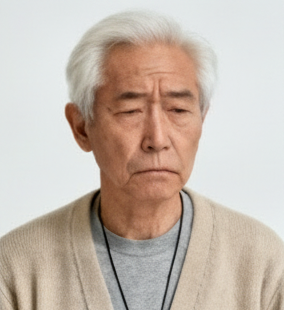
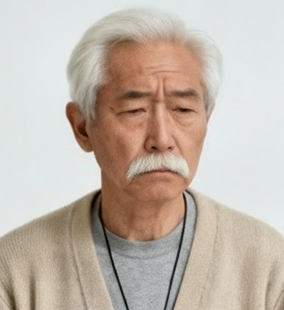
#02 미야모토 마스터 시트 콧수염 일치(엄격 패널 편집 합성), 엄격 표정 셀 참조 복구
Claude-Session: https://claude.ai/code/session_01YQ7Cp53r875ebzvKNdfnd7

diff --git a/scripts/build_chika_phase3.py b/scripts/build_chika_phase3.py
@@ -66,7 +66,7 @@ EXPR = {
     ("SAORI_B", "focus"): C + "saori-b-expr1.png", ("SAORI_B", "fear"): C + "saori-b-expr2.png", ("SAORI_B", "resolve"): C + "saori-b-expr3.png",
     ("SAORI_E", "smile"): C + "saori-e-expr1.png", ("SAORI_E", "nostalgic"): C + "saori-e-expr2.png",
     ("GONDO", "sneer"): C + "gondo-expr1.png", ("GONDO", "laugh"): C + "gondo-expr2.png", ("GONDO", "panic"): C + "gondo-expr3.png",
-    ("MIYAMOTO", "smile"): C + "miyamoto-expr1.png", ("MIYAMOTO", "wistful"): C + "miyamoto-expr3.png",
+    ("MIYAMOTO", "smile"): C + "miyamoto-expr1.png", ("MIYAMOTO", "stern"): C + "miyamoto-expr2.png", ("MIYAMOTO", "wistful"): C + "miyamoto-expr3.png",
     ("KIRITANI", "stern"): C + "kiritani-expr2.png", ("KIRITANI", "doubt"): C + "kiritani-expr3.png",
     ("OKOCHI", "calm"): C + "okochi-expr1.png", ("OKOCHI", "stern"): C + "okochi-expr2.png", ("OKOCHI", "smile"): C + "okochi-expr3.png",
 }
@@ -449,13 +449,13 @@ SHOTS = [
     S("S15f3", "S15", "react", "cu", "bq_cold", "HA", ["KIRITANI"], "BQ_WIDE",
       "High angle chest-up of Kiritani listening with a slow single nod, rimless glasses, expressionless, guests blurred.", expr="stern"),
     S("S15g", "S15", "d", "cu", "bq_cold", "EL", ["MIYAMOTO"], "BQ_WIDE",
-      "Chest-up close-up of Miyamoto in his beige cardigan among the suits, lowered brows, the bushy white moustache, chandeliers blurred.", line="line049", expr="wistful"),
+      "Chest-up close-up of Miyamoto in his beige cardigan among the suits, lowered brows, the bushy white moustache, chandeliers blurred.", line="line049", expr="stern"),
     S("S15h", "S15", "d", "cu", "bq_cold", "LA", ["SAORI_B"], "BQ_WIDE",
       "Chest-up close-up of Saori with a faint cool smile, eyes steady, guests blurred.", line="line050", expr="resolve"),
     S("S15i", "S15", "ins", "ecu", "bq_cold", "HA", ["MIYAMOTO"], "P_CASE",
       "High angle extreme close-up: an old man's hands unlatching and lifting the lid of a grey steel document case on a white tablecloth, a thick stack of yellowed blank sheets inside."),
     S("S15j", "S15", "d", "cu", "bq_cold", "EL", ["MIYAMOTO"], "BQ_WIDE",
-      "Chest-up close-up of Miyamoto, eyes fixed, no smile, the white moustache, a slow nod.", line="line051", expr="wistful"),
+      "Chest-up close-up of Miyamoto, eyes fixed, no smile, the white moustache, a slow nod.", line="line051", expr="stern"),
     S("S15k", "S15", "sil", "ws", "bq_cold", "BE", ["GONDO", "CROWD"], "BQ_HIGH",
       "Extreme bird's-eye view straight down: Gondo on his knees on the red carpet, small in the frame, a ring of empty carpet around him, guests' heads at the edges.",
       motion="Slow motion: his shoulders slump and his head bows lower. Nobody approaches.", hero=True),

diff --git a/productions/chika-souko-ja/08_PHASE2_검수.md b/productions/chika-souko-ja/08_PHASE2_검수.md
@@ -67,7 +67,7 @@
 | 사오리 ⓑ 지하·연회장(S06~S17) | `saori-basement-sheet-1.png` | — (연회장은 앞치마 제외 = 니트+청바지 패널) |
 | 사오리 ⓒ 엔딩(S18) | `saori-ending-sheet-1.png` | — |
 | 곤도 | `gondo-fix-1.png` | — |
-| 미야모토 | `miyamoto-fix-1.png` | 하단 가운데(콧수염 없음) |
+| 미야모토 | `miyamoto-master-1.png` (엄격 패널 콧수염 편집 반영, 고니감독님 지적 2026-10-08) | — |
 | 기리타니 | `kiritani-sheet-1.png` | — (8패널) |
 | 오코치 | `okochi-fix-1.png` | — |
 | 대강당 / 기획부 / 엘리베이터 홀 / 지하(낮) / 지하(밤·엔딩) / 복도 / 연회장 | `loc-*.png` | — |
@@ -76,3 +76,6 @@
 | 소품 | `props-sheet-1.png` | 전표 패널(가짜 글자) → 로컬 그래픽으로 대체 |
 
 콘택트시트: `assets/qa/chika/PHASE2_마스터에셋_콘택트시트.jpg`. 식별자 갱신: 사오리 = **앞머리(뱅) 있는 어깨 길이 검은 머리 반묶음 + 얇은 은테 안경**.
+
+## 5차 (고니감독님 지적: 콧수염 불일치)
+- 미야모토 하단 가운데(엄격) 패널만 잘라 편집 모델로 콧수염 추가(0.04달러) → 시트에 재합성 `miyamoto-master-1.png`, 셀 `miyamoto-expr2.png` 교체. 누적 38장 ≈ 1.52달러.
